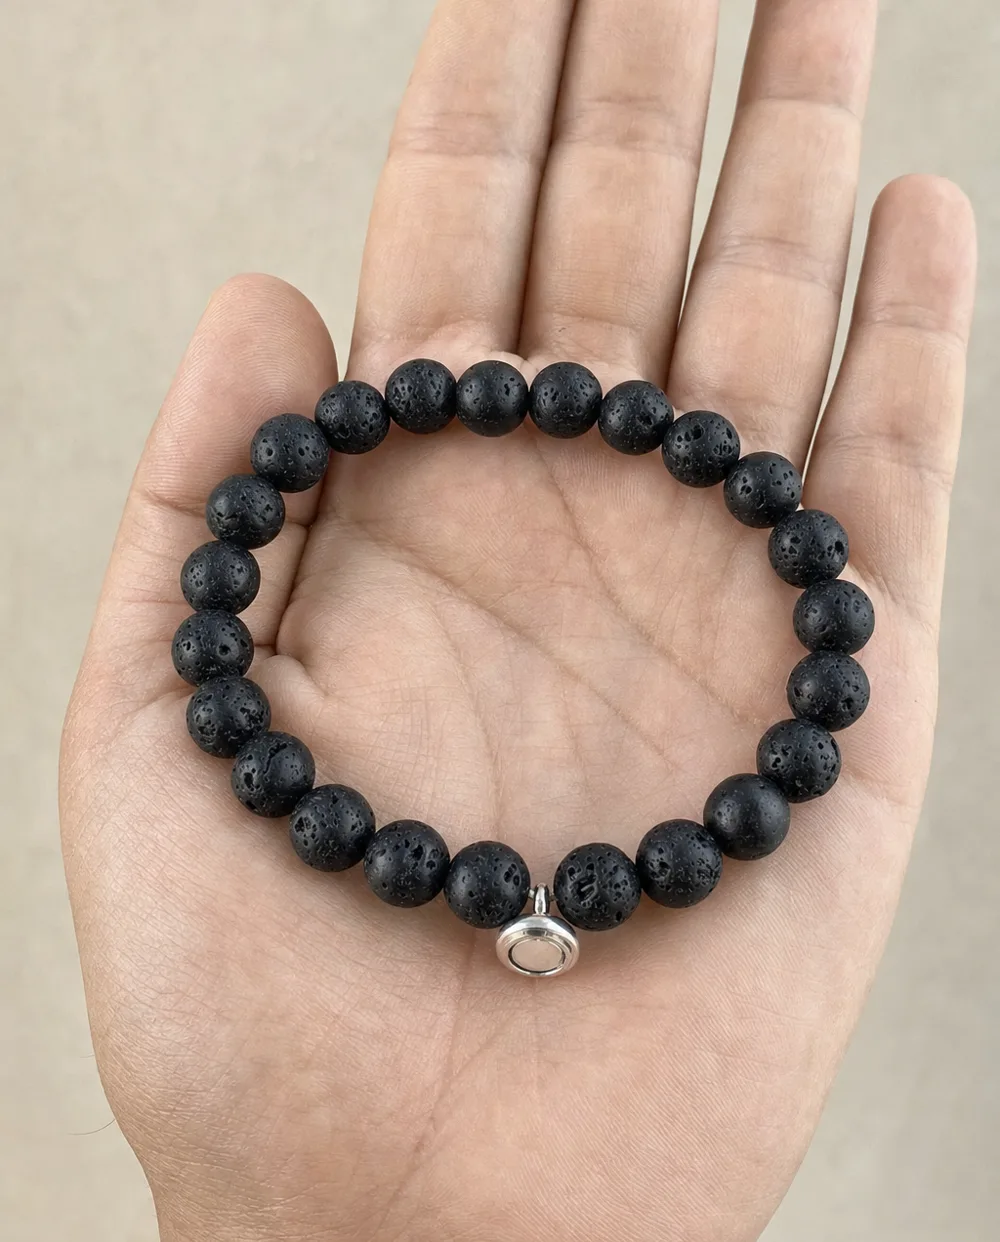
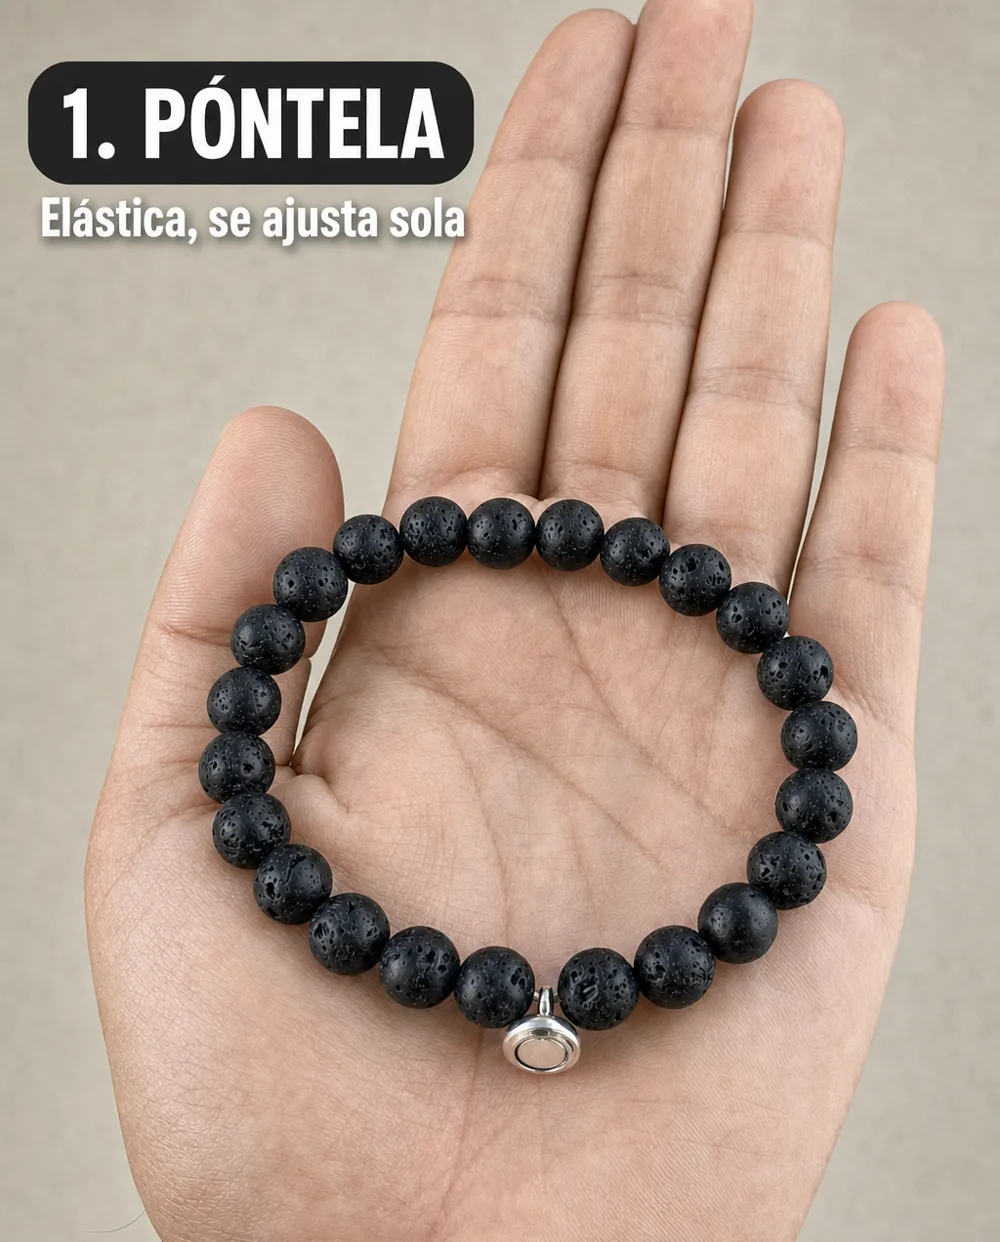
Pulsera: fotos de los pasos con título (1. Póntela, 2. Tócala, 3. Recuerda tu decisión)

diff --git a/pulsera.js b/pulsera.js
@@ -51,9 +51,9 @@
   /* ---- CAPÍTULO 2 · el gesto que te frena (tres fotos aprobadas) ---- */
   function capituloGesto() {
     var pasos = [
-      ['img/pulsera-palma.webp?v=1', 'La pulsera de piedra volcánica con su imán redondo plateado en la palma de una mano', 'Paso 1', 'Póntela', 'Elástica, se ajusta sola. La llevas todo el día y casi no la notas.'],
-      ['img/pulsera-muneca.webp?v=1', 'Una mujer tranquila con una taza de té y la pulsera en la muñeca', 'Paso 2', 'Cuando lleguen las ganas, tócala', 'Siente la piedra y el imán. Esa pausa de unos segundos es la que frena el impulso.'],
-      ['img/pulsera-pareja.webp?v=1', 'La muñeca de un hombre y la de una mujer, cada una con la misma pulsera', 'Paso 3', 'Recuerda tu decisión', 'Cada vez que la miras te acuerdas de por qué lo dejas. Y si lo dejáis juntos, mejor.'],
+      ['img/pulsera-palma.webp?v=2', 'La pulsera de piedra volcánica con su imán redondo plateado en la palma de una mano', 'Paso 1', 'Póntela', 'Elástica, se ajusta sola. La llevas todo el día y casi no la notas.'],
+      ['img/pulsera-muneca.webp?v=2', 'Una mujer tranquila con una taza de té y la pulsera en la muñeca', 'Paso 2', 'Cuando lleguen las ganas, tócala', 'Siente la piedra y el imán. Esa pausa de unos segundos es la que frena el impulso.'],
+      ['img/pulsera-pareja.webp?v=2', 'La muñeca de un hombre y la de una mujer, cada una con la misma pulsera', 'Paso 3', 'Recuerda tu decisión', 'Cada vez que la miras te acuerdas de por qué lo dejas. Y si lo dejáis juntos, mejor.'],
     ];
     return '<section class="bloque pu-sec pu-gesto">'
       + '<span class="pu-num" aria-hidden="true">02</span>'

diff --git a/producto.html b/producto.html
@@ -1190,7 +1190,7 @@ window.jayePixel = (function () {
     </div>
   </footer>
 
-<script src="productos.js?v=240"></script>
+<script src="productos.js?v=241"></script>
 <!-- ESPAÑA: provincias y codigos postales sin cobertura, en vez de las
      regiones y comunas de Chile. -->
 <script src="provincias-es.js?v=110"></script>
@@ -1215,7 +1215,7 @@ window.URL_PEDIDO = 'https://n8n-production-8a42.up.railway.app/webhook/pedido-t
 <script src="ducha.js?v=7"></script>
 <script src="sellador.js?v=3"></script>
 <script src="aranazos.js?v=4"></script>
-<script src="pulsera.js?v=1"></script>
+<script src="pulsera.js?v=2"></script>
 <!-- Los js de los productos de Chile (organizador, clorofila, lymphoria,
      antena, cargador) NO van aqui: no existen en este repo y daban 404. -->
 

diff --git a/productos.js b/productos.js
@@ -507,8 +507,8 @@ window.PRODUCTOS = [
     etiqueta: 'Lanzamiento en España',
     etiquetaOro: true,
 
-    foto: 'img/pulsera-palma.webp?v=1',
-    fotos: ['img/pulsera-palma.webp?v=1', 'img/pulsera-muneca.webp?v=1', 'img/pulsera-pareja.webp?v=1'],
+    foto: 'img/pulsera-palma.webp?v=2',
+    fotos: ['img/pulsera-palma.webp?v=2', 'img/pulsera-muneca.webp?v=2', 'img/pulsera-pareja.webp?v=2'],
     video: 'img/pulsera-ficha.mp4?v=1',
 
     hero: {
